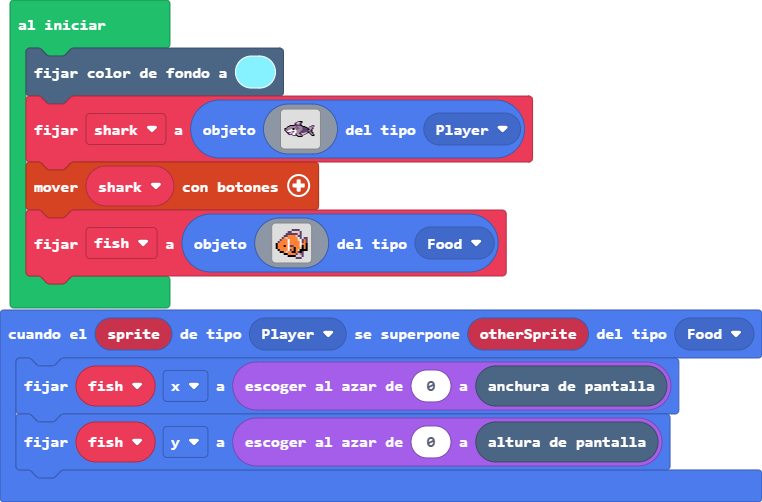
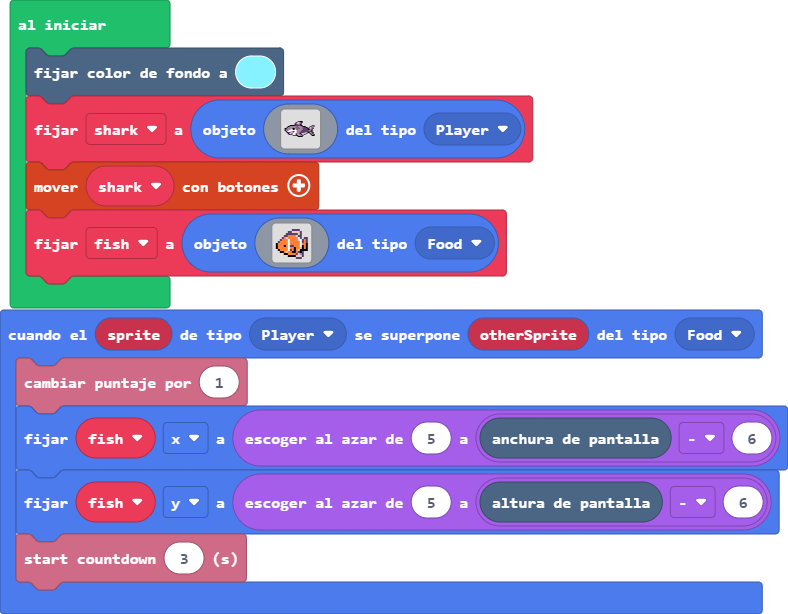
Contador y cuenta regresiva

diff --git a/main.ts b/main.ts
@@ -1,6 +1,8 @@
 sprites.onOverlap(SpriteKind.Player, SpriteKind.Food, function (sprite, otherSprite) {
-    fish.x = randint(0, scene.screenWidth())
-    fish.y = randint(0, scene.screenHeight())
+    info.changeScoreBy(1)
+    fish.x = randint(5, scene.screenWidth() - 6)
+    fish.y = randint(5, scene.screenHeight() - 6)
+    info.startCountdown(3)
 })
 let fish: Sprite = null
 scene.setBackgroundColor(9)

diff --git a/main.py b/main.py
@@ -1,6 +1,8 @@
 def on_on_overlap(sprite, otherSprite):
-    fish.x = randint(0, scene.screen_width())
-    fish.y = randint(0, scene.screen_height())
+    info.change_score_by(1)
+    fish.x = randint(5, scene.screen_width() - 6)
+    fish.y = randint(5, scene.screen_height() - 6)
+    info.start_countdown(3)
 sprites.on_overlap(SpriteKind.player, SpriteKind.food, on_on_overlap)
 
 fish: Sprite = None
